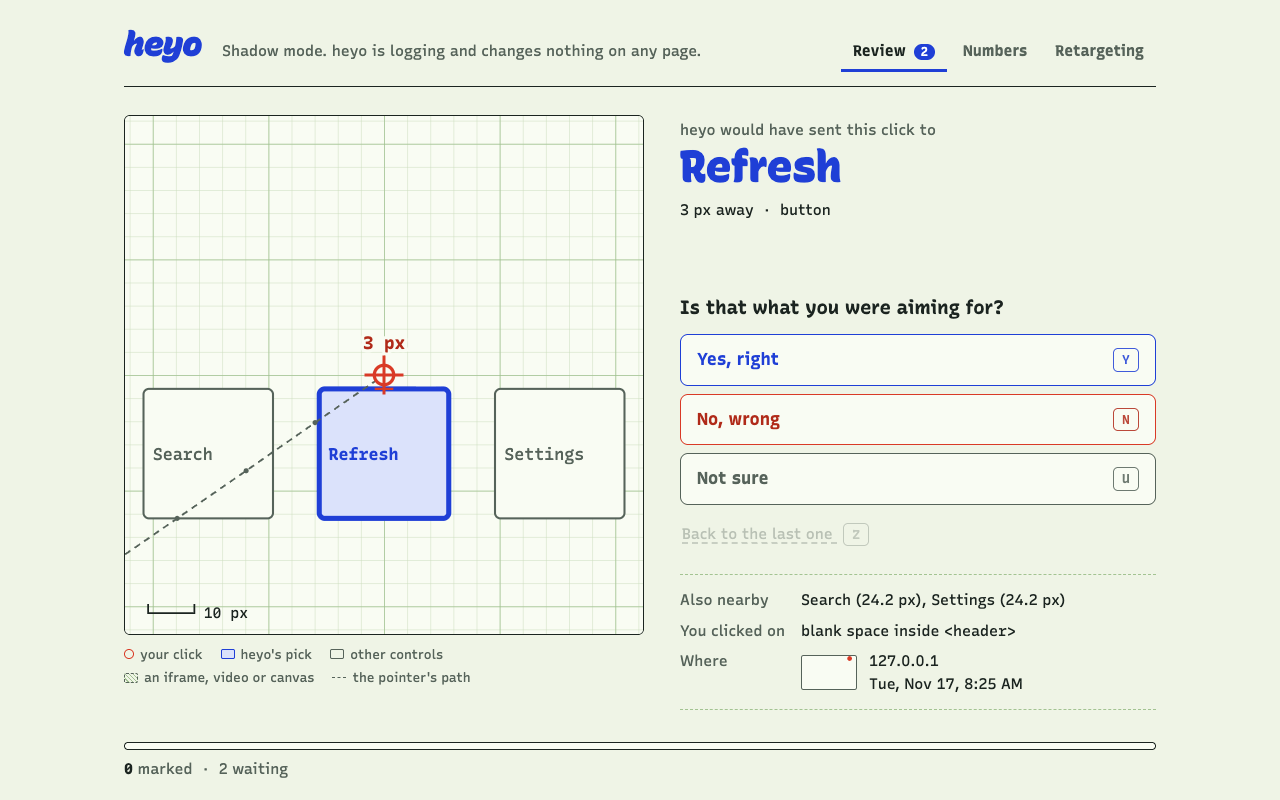
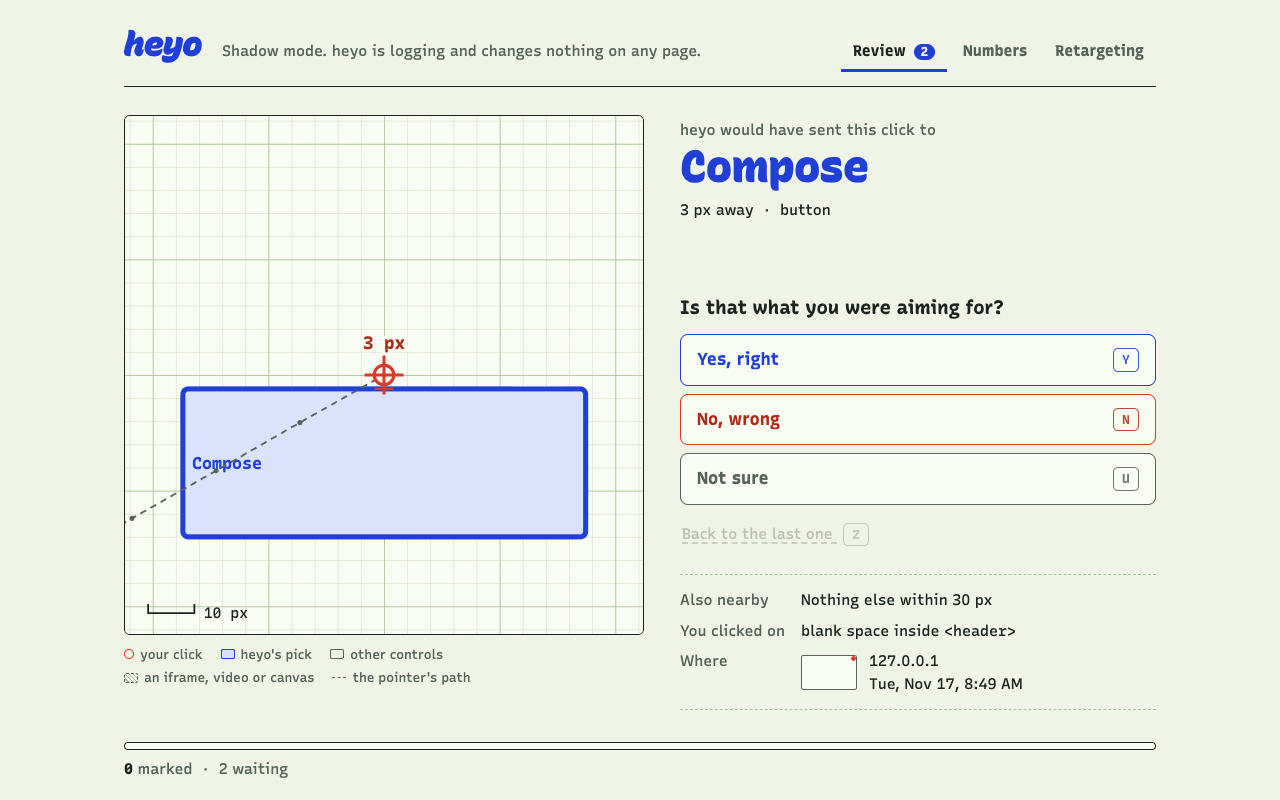
Say in the status page why the Mac experiment has not run and what the capture still lacks

diff --git a/docs/status.md b/docs/status.md
@@ -11,7 +11,7 @@ Last updated 17 November 2026.
 - **The decision.** It passes both of the plan's gates on the held-out split of six 24-week logs, three synthetic and three scripted: recovery from 52.9% to 58.9%, and a wrong-target upper bound from 0.39% to 0.72%. The table is in [decisions.md](decisions.md) under "Decision".
 - **Retargeting.** With the gates passing on the local log, the Retargeting tab unlocks. heyo then sends a missed click on to its target on three sites: en.wikipedia.org, news.ycombinator.com and developer.mozilla.org. Each has a scripted replay test against the live site. heyo turns retargeting off by itself when the log stops passing or cannot be read, after a wrong click that could not be undone, or after more than one wrong click in a week.
 - **Launch files.** `npm run package` writes the zip the Chrome Web Store takes. [store/listing.md](../store/listing.md) has the listing text, the permission justifications and the data disclosures. The screenshots and the promo tile are in `store/`. The privacy policy is [privacy.md](privacy.md).
-- **The Mac experiment.** `mac/` holds the feasibility experiment the plan asks for before any Mac app. It builds, and its unit tests pass.
+- **The Mac experiment.** `mac/` holds the feasibility experiment the plan asks for before any Mac app. It builds, and its unit tests pass. It has not been run: it needs Accessibility permission, and no shell on this machine that I can start has it.
 
 ## What the numbers do and do not show
 
@@ -20,8 +20,9 @@ Every gate result so far is on generated clicks. The synthetic and scripted logs
 ## What is left
 
 - Two weeks of real use in shadow mode, and about 300 hand-reviewed fires. Then the gates on that log decide whether retargeting goes on. If the decision misses a gate there, the agent loop is the next step, from about 500 labeled misses.
-- The Mac experiment has not been run, so there is no go or no-go for a Mac app, and no Mac app beyond the experiment. The plan puts the experiment first for that reason.
+- The Mac experiment has not been run, so there is no go or no-go for a Mac app, and no Mac app beyond the experiment. The plan puts the experiment first for that reason: if hit tests are too slow or the event tap cannot rewrite a press, the Mac app is not worth building as planned. Shadow mode and retargeting for the Mac come after a go.
 - More sites on the allowlist. Each needs its own replay test.
+- A capture that tells a covered control from a round one pressed at its corner, and that sees a page change just before a quick press. `docs/decisions.md` has both under "Decision".
 
 ## What needs Krish
 
